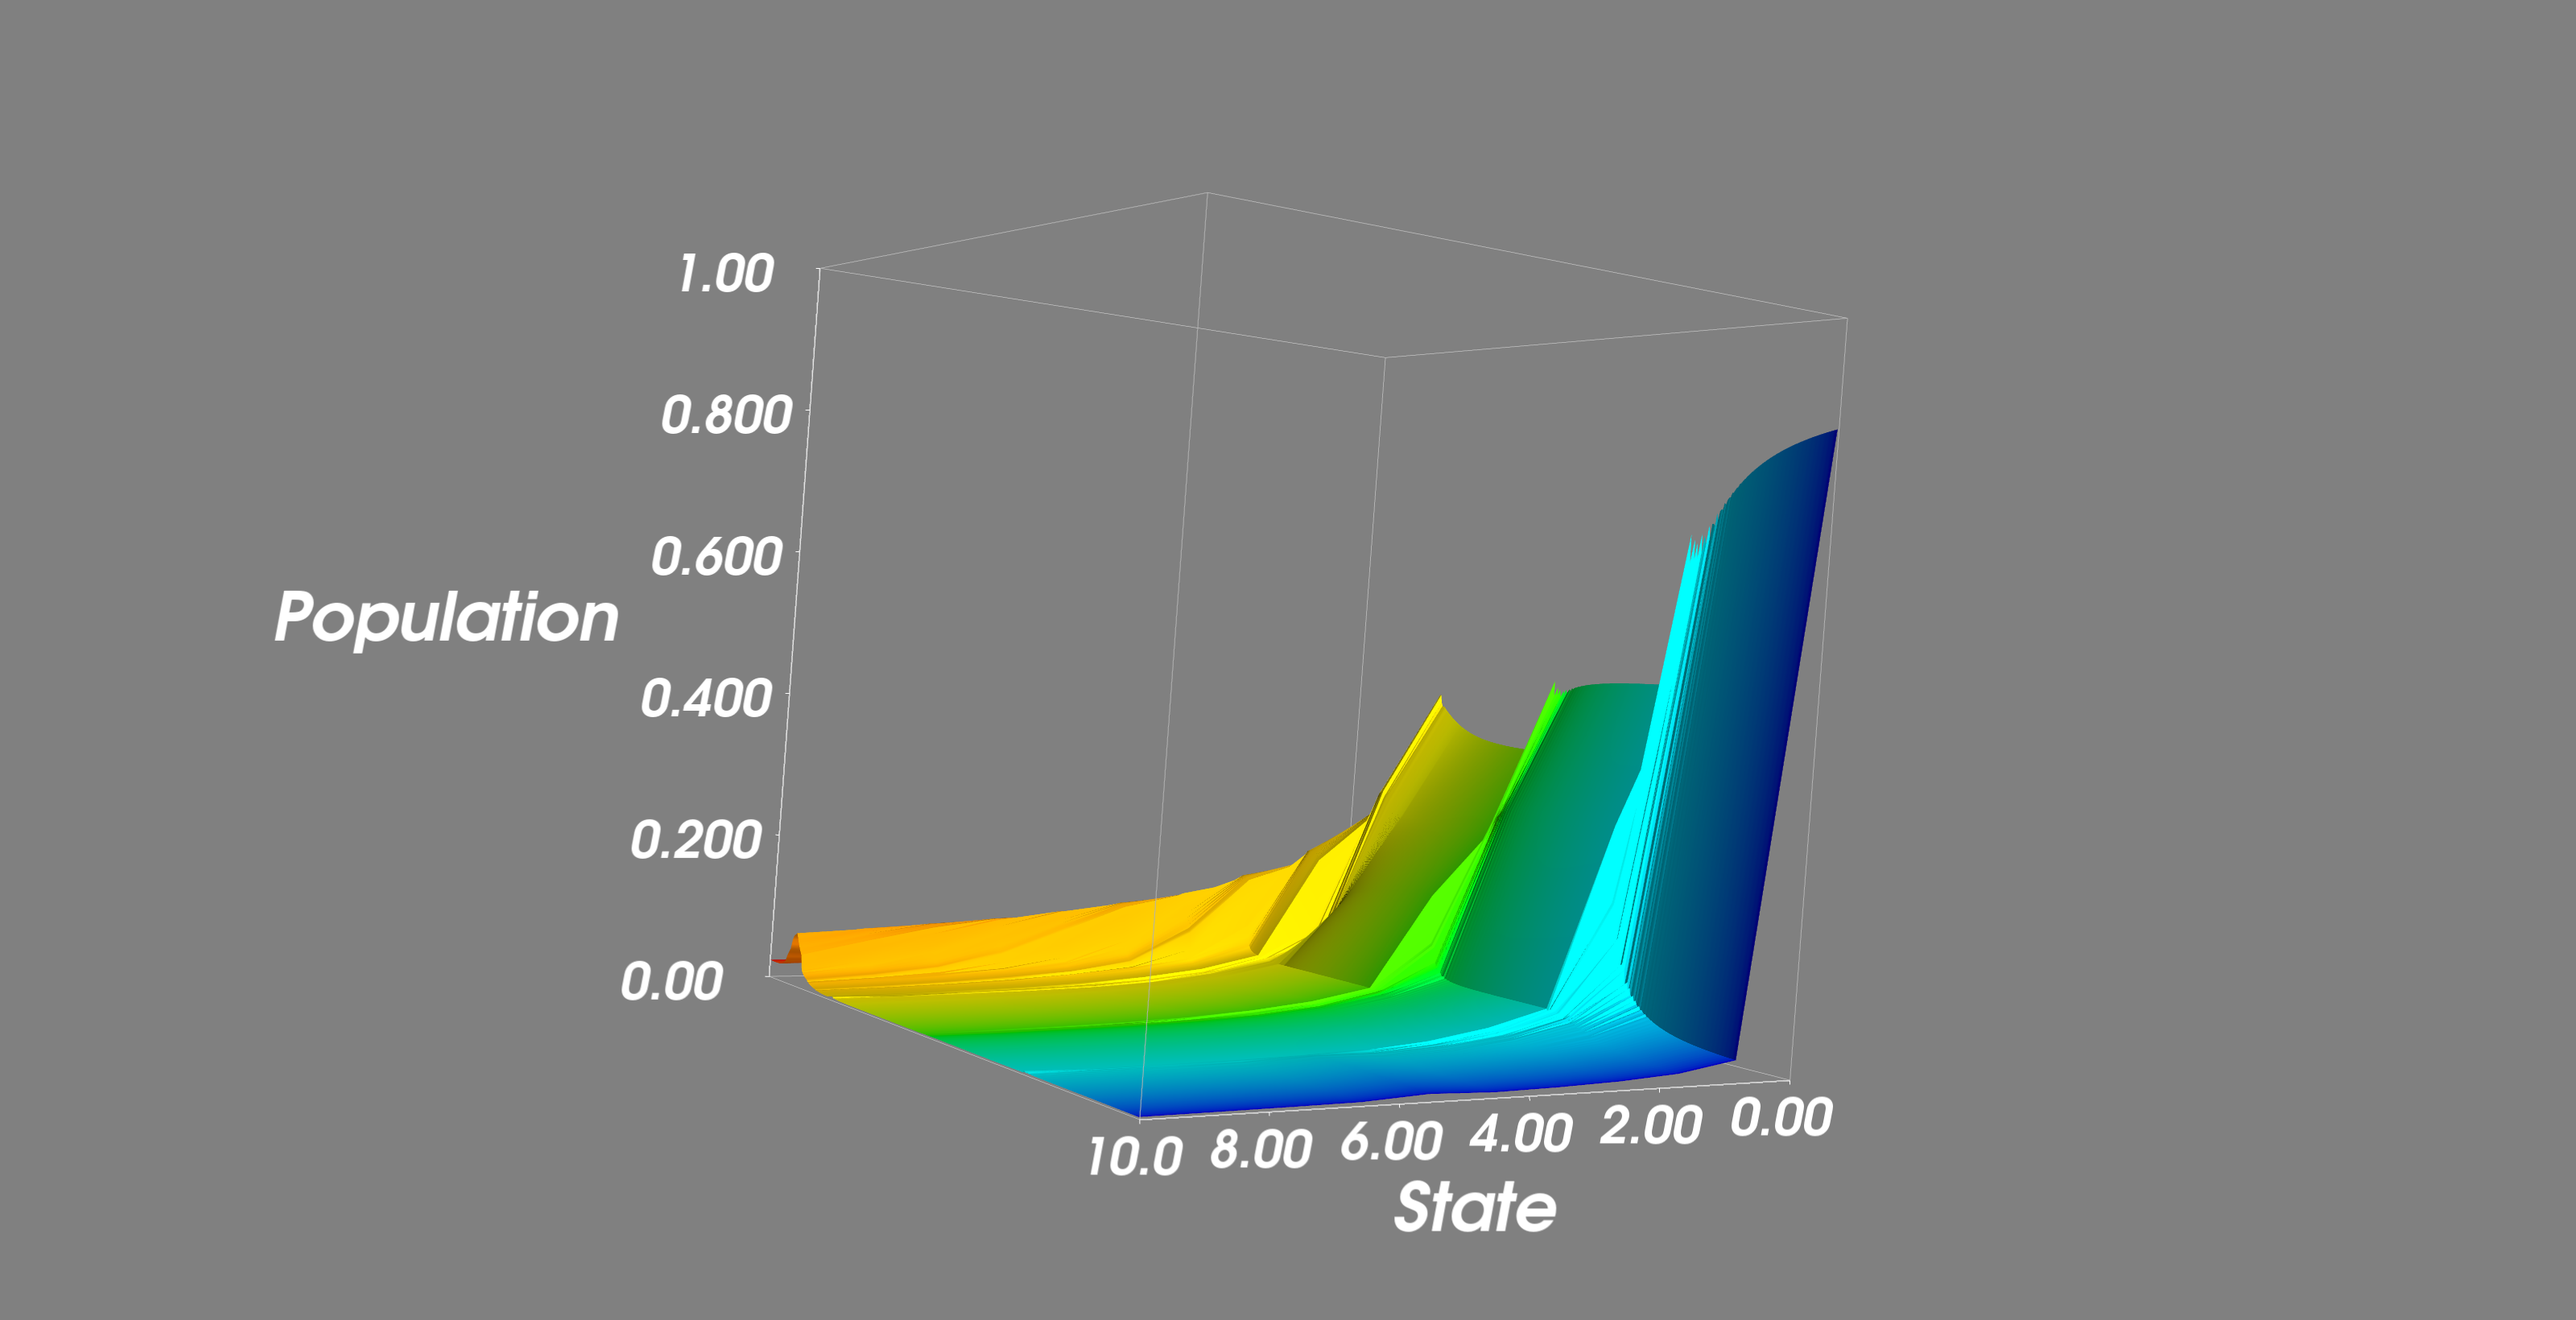
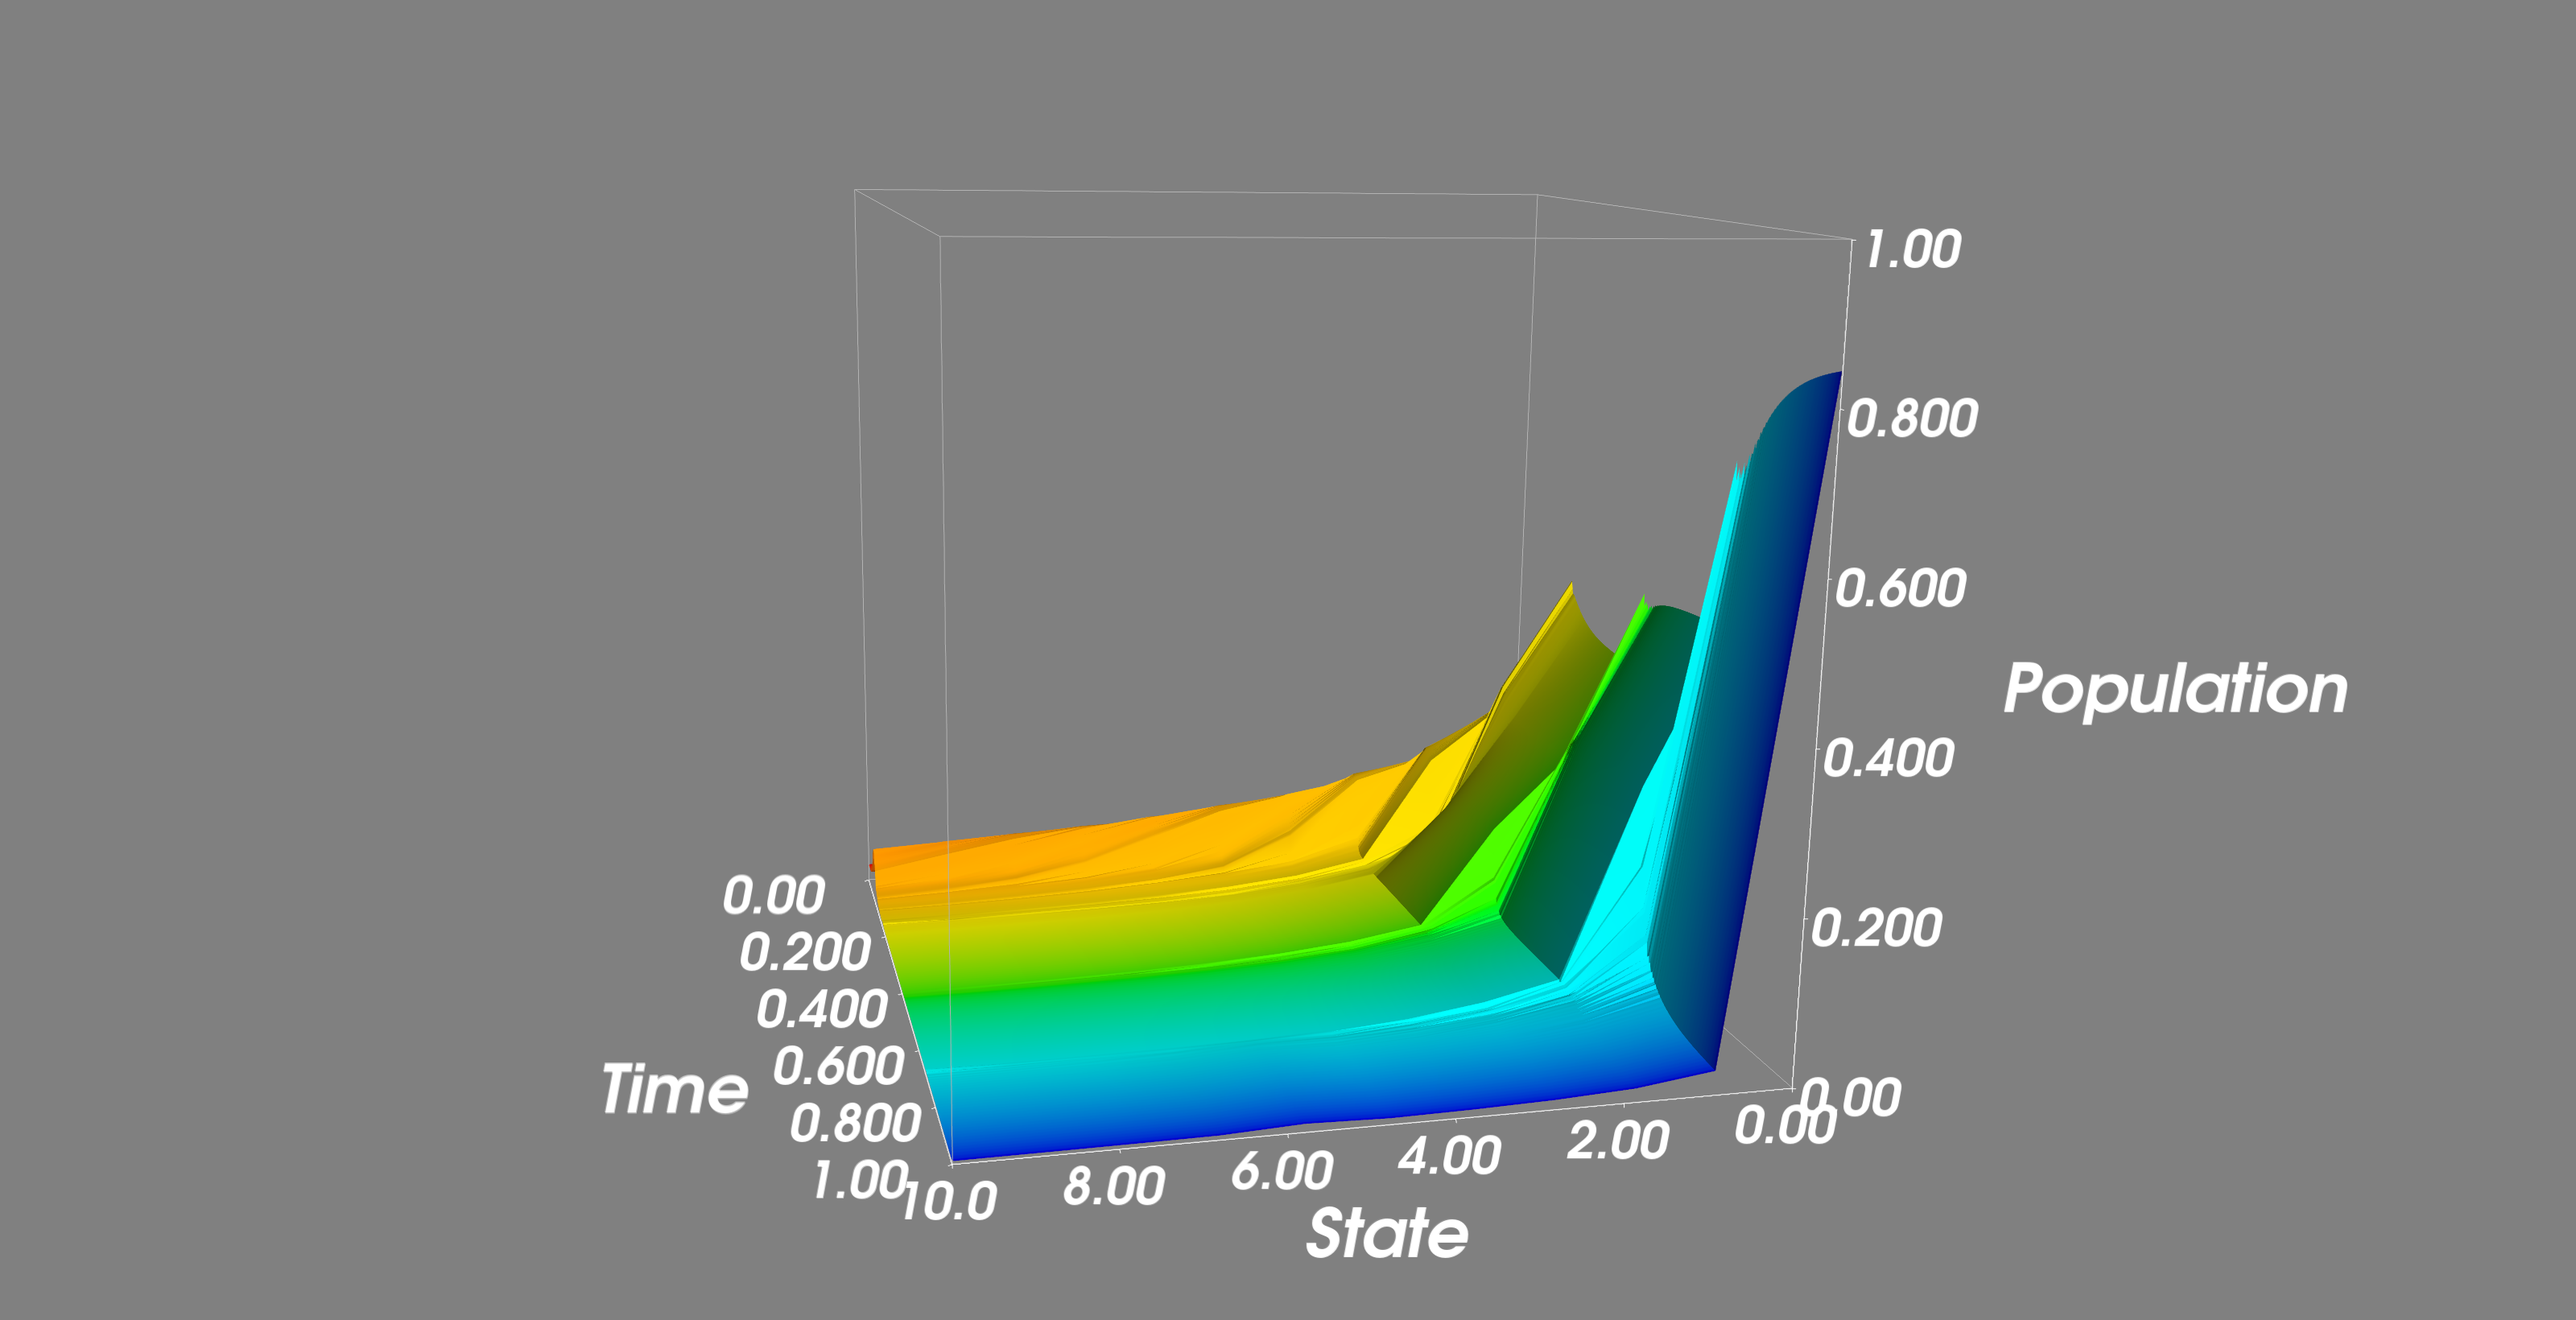
[3dplot]

diff --git a/test.py b/test.py
@@ -711,7 +711,7 @@ def main_plot3():
     from matplotlib import cm
     from mayavi import mlab
 
-    names = ['res5.json', 'res24.json', 'res26.json', 'res28.json']
+    names = ['res5.json', 'res24.json', 'res26.json', 'res29.json']
     ps = _load_jsons(names, 'ps')
     ns = _load_jsons(names, 'ns')
 
@@ -726,8 +726,7 @@ def main_plot3():
     surf.module_manager.scalar_lut_manager.reverse_lut = True
 
     ax = mlab.axes(xlabel="Population", ylabel='State', zlabel="Time",
-                   x_axis_visibility=False, nb_labels=6,
-                   extent=[0, 1, 0, 1, 0, 1],
+                   nb_labels=6, extent=[0, 1, 0, 1, 0, 1],
                    ranges=[0, 1, 0, len(N_fine) - 1, 0, 1])
     ax.label_text_property.font_size = 5
 
